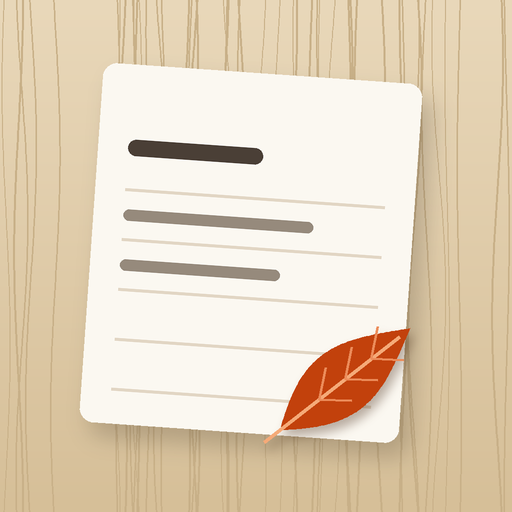
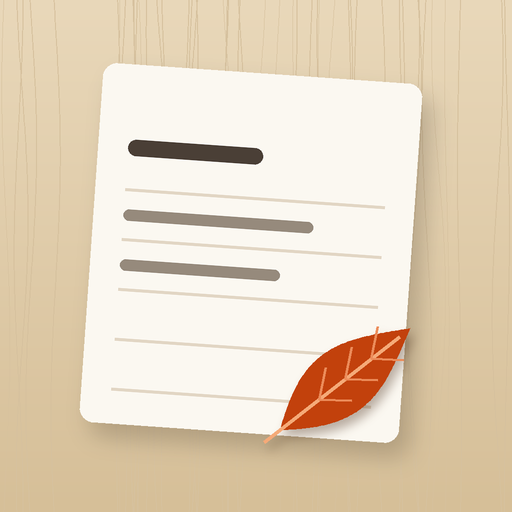
iOS 第 5 轮：桌面木纹收淡（跟参照并排看纹太硬），图标同步；报告、对比记录
Claude-Session: https://claude.ai/code/session_01KCV9xsxSgJMMeq3zA6xANV

diff --git a/ios/Yiye/UI/Paper.swift b/ios/Yiye/UI/Paper.swift
@@ -21,9 +21,9 @@ extension UIColor {
 }
 
 enum Ink {
-    static let desk = UIColor.dyn(0xE2CFAE, 0x1C1814)
-    static let deskGrainA = UIColor.dyn(0xCDB48C, 0x2A231C)
-    static let deskGrainB = UIColor.dyn(0xEEDFC4, 0x15120F)
+    static let desk = UIColor.dyn(0xEAD6B4, 0x1C1814)
+    static let deskGrainA = UIColor.dyn(0xD9C19A, 0x272019)
+    static let deskGrainB = UIColor.dyn(0xF3E4C8, 0x17130F)
     static let paper = UIColor.dyn(0xFBF8F1, 0x2A2622)
     static let paperEdge = UIColor.dyn(0xD8CBB5, 0x3D352D)
     static let text = UIColor.dyn(0x4A3F36, 0xE9E1D4)
@@ -92,13 +92,13 @@ enum Texture {
         let img = UIGraphicsImageRenderer(size: size, format: fmt).image { ctx in
             let cg = ctx.cgContext
             base.setFill(); cg.fill(CGRect(origin: .zero, size: size))
-            // 木纹：一条条细竖线，左右轻轻摆，首尾接得上（能平铺）
-            for i in 0..<70 {
+            // 木纹：一条条细竖线，左右轻轻摆，首尾接得上（能平铺）。第 3 轮跟参照并排看，纹太硬，收淡、收少
+            for i in 0..<44 {
                 let x0 = rnd() * size.width
                 let amp = 2 + rnd() * 6
                 let phase = rnd() * .pi * 2
-                let w = 0.6 + rnd() * 1.8
-                let c = (i % 3 == 0 ? gb : ga).withAlphaComponent(0.18 + rnd() * 0.28)
+                let w = 0.5 + rnd() * 1.2
+                let c = (i % 3 == 0 ? gb : ga).withAlphaComponent(0.10 + rnd() * 0.18)
                 cg.setStrokeColor(c.cgColor)
                 cg.setLineWidth(w)
                 cg.beginPath()

diff --git a/ios/tools/make_images.py b/ios/tools/make_images.py
@@ -163,7 +163,7 @@ def icon():
     for _ in range(46):                                      # 木纹
         x0 = rnd.uniform(0, S); amp = rnd.uniform(4, 14); ph = rnd.uniform(0, 6.28)
         pts = [(x0 + amp * math.sin(ph + y / S * 6.28), y) for y in range(0, S + 8, 8)]
-        d.line(pts, fill=(200, 176, 136), width=rnd.choice([2, 3, 4]))
+        d.line(pts, fill=(214, 193, 158), width=rnd.choice([1, 2, 2]))
     # 纸：带一点影子，微微转个角度
     paper = Image.new("RGBA", (640, 720), (0, 0, 0, 0))
     pd = ImageDraw.Draw(paper)

diff --git a/ios/报告_058.md b/ios/报告_058.md
@@ -1,0 +1,68 @@
+装好以后能干啥：2014 年锤子便签那个样子的便签本（原木桌面、纸条、横线信纸，Markdown 五招、插图、换纸色、置顶、文件夹、搜索、左滑删除带撤销）；拍一页纸手机上直接认成字、排好版，拿不准的标黄点一下就改；分享成「便签」「白纸」两种图；每条笔记自动在 iCloud 云盘存一份 .md，掌机上的大管家理顺了送回来自动换上。
+要你做的事：照 ios/装机.md 点一遍——电脑装 iTunes 和 iloader、插线装 SideStore；手机开开发者模式、信任证书、装 LocalDevVPN、SideStore 里加源装 Yiye、设每天自动续签的快捷指令；第一次打开选 iCloud 云盘；掌机装 iCloud for Windows 登同一个 Apple ID。
+还糙的地方：没在真 iPhone 上跑过（相机、存相册、选 iCloud 文件夹、iCloud 同步只在模拟器和测试里过）；手写认对 89%，靠大管家补；标黄只能整行标（Vision 对中文不给逐词信心）；锤子原版截图没下到，长相照文字描述和 markdown-css-smartisan 做的，新建便签那个铺满屏的小动画没做。
+
+---
+
+# 058 一叶笺 iPhone 版 0.1：报告
+
+施工：云端施工队，2026-11-20（新加坡时间）。代码在本仓库 `ios/`，网页版一个字没动。
+
+## 做到哪
+
+| 单子上的 | 做了没 | 在哪看 |
+|---|---|---|
+| 流水线：macos-26 编、XcodeGen 生成工程、纯 Swift 包单测、截图提交回来 | 做了。Xcode 26.6（UIDesignRequiresCompatibility 只给到 26，钉死），模拟器 iPhone 17 Pro / iOS 26.5 | `.github/workflows/ios.yml`、`ios/project.yml`、`ios/shots/` |
+| 打 tag 出未签名 .ipa、发 Releases、SideStore 源 | 见下面「发版」 | Releases `ios-v0.1.0`、`ios/sidestore.json` |
+| 1 长相 | 自己画顶栏、按钮、工具条，没用系统导航栏；纸纹、木纹、回形针、图标都是代码画的；深色是同一张纸的夜里版 | `ios/shots/*/` |
+| 2 列表 | 纸条（标题、两行摘要、时间）、置顶在上、三种排序、文件夹（全部 + 自建，能挪）、搜索、左滑删除带撤销、右滑置顶 | `01-list.jpg` |
+| 3 写字 | 横线信纸，五招（标题连点一二三级再取消、列表、粗体、引用、居中存成独占一行的 `<center>…</center>`），标记字露在字里颜色淡；插图（存附件，正文 `![](附件/xxx.jpg)`）；五种纸色；字号小中大；列表、引用行末回车自动接 | `02-editor.jpg`、`03-markdown.jpg` |
+| 4 拍照认字 | VisionKit 文档相机；它要是闪退，下次启动自动换成自己做的相机 + Vision 找边拉正；相册也能挑；RecognizeDocumentsRequest 本机认（简体中文 + 英文，先核过它报的 30 种支持语言）；出 Markdown 草稿；拿不准的标黄，点黄字整段选中直接改；原图存附件，「看原图」能看 | `04-ocr.jpg`、`ios/shots/ocr/` |
+| 5 分享成图 | 网页版 `parse()`/`layout()` 搬到 Swift，只留「便签」（默认）「白纸」；再认五招和图片；不印日期，3 倍，字多出长图；底下两个缩略图，「保存相册」「分享」；落款中文「一叶笺」、英文「Yiye」 | `05-share-note.jpg`、`06-share-white.jpg` |
+| 6 镜像文件夹 | 第一次打开问一次（一句话 + 一个按钮，能跳过）；文件面板开在 iCloud 云盘那层；建「一叶笺/」；每存一次写「标题-短id.md」带 front matter；图片进 `附件/`；删的进 `废纸篓/`；设置里能换、能「从文件夹导入」；iCloud 占位文件先下载再读 | `07-settings.jpg` |
+| 7 连大管家 | 照 `ios/docs/大管家接口.md` v1，接口没改；拍照的自动交、别的菜单里交；「大管家在理 / 改了 N 处（点开看、能换回原文）/ 理好了点一下换上 / 出错原样显示 + 再交一次」；设置里看心跳；只在 app 开着时看（进前台一次、开着每 5 秒） | `08-butler.jpg` |
+| 8 设置 | 镜像文件夹、字号、大管家、中文 / English（跟系统，切了记住、立刻生效）、版本号 | `07-settings.jpg` |
+| 9 文字 | 中英两套在 String Catalog（`Localizable.xcstrings`、`InfoPlist.xcstrings`），由 `ios/tools/strings.py` 生成；导出 `ios/docs/strings/zh.txt`、`en.txt` | |
+| 10 数据 | SwiftData 本机存；字段全有默认值、不用 unique、关系可选（以后开 iCloud 同步不用改表）；图片存文件 | `ios/Yiye/Model/Models.swift` |
+| 11 v2 口子 | 键盘、相机都走 `Intake` → 排版 → 存 → （拍照的）交大管家；`IntakeKind` 里已经有 `voice`，请求的 `kind` 写 `voice` 就走同一根管子 | `ios/YiyeKit/Sources/YiyeKit/Intake.swift` |
+
+## 数字
+
+- 单元测试：YiyeKit 38 个，Linux（Swift 6.1.3）和 CI 的 macOS 上都过。
+- 截图：8 个界面 × 浅深 × 中英 = 32 张，CI 每次覆盖 `ios/shots/`。
+- 拍照认字（10 张自己造的样张，CI 上 macOS 26 的 Vision 跑，跟 iPhone 同一套 RecognizeDocumentsRequest，详表 `ios/shots/ocr/report.md`）：
+  - 印刷 5 张（通知、清单、名字＋数字、中英混排、表格）认对 99%（编辑距离算，不算空格和标记）。
+  - 手写 5 张（龙藏、马善政、智莽行、流江毛草、站酷快乐体，歪着、带阴影）认对 89%；最差的流江毛草（草书）60%，最好的马善政、站酷快乐体 100%。
+  - 标黄：10 张一共标了 11 段，9 段真有错（82%）；认错的 18 个字里 15 个落在黄底里（83%）。
+  - 每张 0.7–1.9 秒（CI 的 Mac 上）。
+- 镜像：新建、改、改名、插图、删（进废纸篓、撤销挪回来）、导入（含 iCloud 占位文件）六条路在单元测试里各跑一遍，文件夹里的 .md、附件、front matter 字段都对得上（`MirrorButlerTests.testNewEditRenameDeleteImageImport`、`testImportWaitsForICloudPlaceholders`）。
+- 大管家：拿接口文档里的样例造结果文件，四条路都跑过——自动换上、换回原文、这期间改过不覆盖（点一下换上）、出错原样显示 + 再交一次；外加接口版本不对、别人的结果不认、结果是 iCloud 占位文件、心跳在线 / X 分钟前 / 没来（`MirrorButlerTests.testFourPaths` 等）。
+
+## 发版
+
+RELEASE_LINE
+
+## 拍了什么板
+
+- 没有 Mac：全在 GitHub 的 macos-26 机器上编。纯逻辑（Markdown、排版、镜像格式、大管家接口、认字草稿）放 `YiyeKit`，这台云机器上装了 Swift 6.1.3 先跑测试，再上 CI。
+- Vision 新接口的样子先用一个探路工作流把 SDK 里的 `.swiftinterface` 原样抠出来再写（苹果文档页一半进不去），认字包第一次上 CI 就编过。
+- 写字页的横线跟着行走：每行固定一个行高，图片占整数行，横线用平铺图案画在字后面。
+- 标黄：试过「认两遍对答案」（网页版的办法），Vision 两种请求认出来一模一样，没用；改按每行信心，0.82 以下标黄（10 张样张量出来的门槛）。
+- 换语言不重启：自己按选的语言去 lproj 里查字。
+- 分享图量字、画字用同一套 CoreText，量的和画的一样宽。
+
+## 踩的坑
+
+- TextKit 2 里 `baselineOffset` 会吃掉固定行高：第 1 轮截图字行 28、横线 32，越往下越错位。去掉以后对齐。
+- Vision 会把「A线早班」当成 A、B、C 编号的清单，编号又拼回字里，出来「A A线早班」。编号已在字里的照原样。
+- 勾选框 □ 认成汉字「口」，而且 Vision 常把每行切成一段。整页按行判断，连着两行以上「口」开头就变成列表。
+- macOS 临时目录有 `/var → /private/var` 软链，按全路径对文件会对不上（测试里踩的）。
+- 写工作流时不能把邮箱写进文件：CI 提交用触发那次提交的作者。
+
+## 网页、文件、日志里冒出来的「让你执行什么」
+
+没碰到。
+
+## 接口
+
+`ios/docs/大管家接口.md` 没改。手机这头写请求时多了一个约定内的细节：`images`、`unsure` 为空时整个字段不写（接口里说的是「只有 photo 有」「可选」）。

diff --git a/ios/docs/对比.md b/ios/docs/对比.md
@@ -48,3 +48,20 @@
 | 勾选框 | 「口牛奶2盒」变成「- 牛奶2盒」，p2 认对 81%→100%；印刷合计 99% | 不动 |
 | 截图「拍照认字结果」 | 用的是印刷体样图，信心都高，看不到标黄 | 换成手写的样图（中文龙藏体、英文 Patrick Hand），截图里能看到标黄 |
 | 样张报告 | 「标黄里真错」把少个空格也算成错（认对几成不算空格，两边不一致） | 空格多少一律不算错 |
+
+## 第 4 轮（CI 77ea4eb，11-20 11:34）
+
+| 哪儿 | 结果 | 下一步 |
+|---|---|---|
+| 拍照认字 | 去掉第二遍以后每张 0.7–1.9 秒（第 2 轮 1.4–3.9 秒）；印刷 99%、手写 89% 不变 | 不动 |
+| 标黄 | 空格不算错以后：标黄 11 段，9 段真有错（82%）；认错的 18 个字里 15 个在黄底里 | 不动 |
+| 截图「拍照认字结果」 | 手写样图上能看到黄底那一行（「c线早班1105件牛」：龙藏体的「件」被拆出一个「牛」，信心 0.74） | 这类错交给大管家 |
+
+## 参照并排（第 3 轮截图 vs markdown-css-smartisan 的图）
+
+| 哪儿 | 参照 | 我们 | 改了啥 |
+|---|---|---|---|
+| 桌面木纹 | 浅原木 #f0dab3，纹很淡 | 纹偏硬，一道道竖线抢眼 | 木纹收淡收少（44 条、透明度 0.10–0.28）；底色提亮到 #EAD6B4；图标的木纹同样收淡 |
+| 纸 | 暖白 #fffcf6，纸边内收两道细框线 | 写字页暖白 #FBF8F1；分享图「便签」照网页版 #F6F2EA 加噪点，没有框线 | 写字页不加框线（横线信纸要满版）；分享图照单子用网页版「便签」 |
+| 正文颜色 | 暖褐 #645647 | 写字页 #4A3F36（再深一点，横线上好认） | 不动 |
+| 列表、引用 | 浅色小圆点、淡引号 + 浅褐字 | 写字页露 Markdown 标记字（单子要求「标记字照锤子那样露在字里，颜色淡」）；引用的字灰一点 | 不动 |
